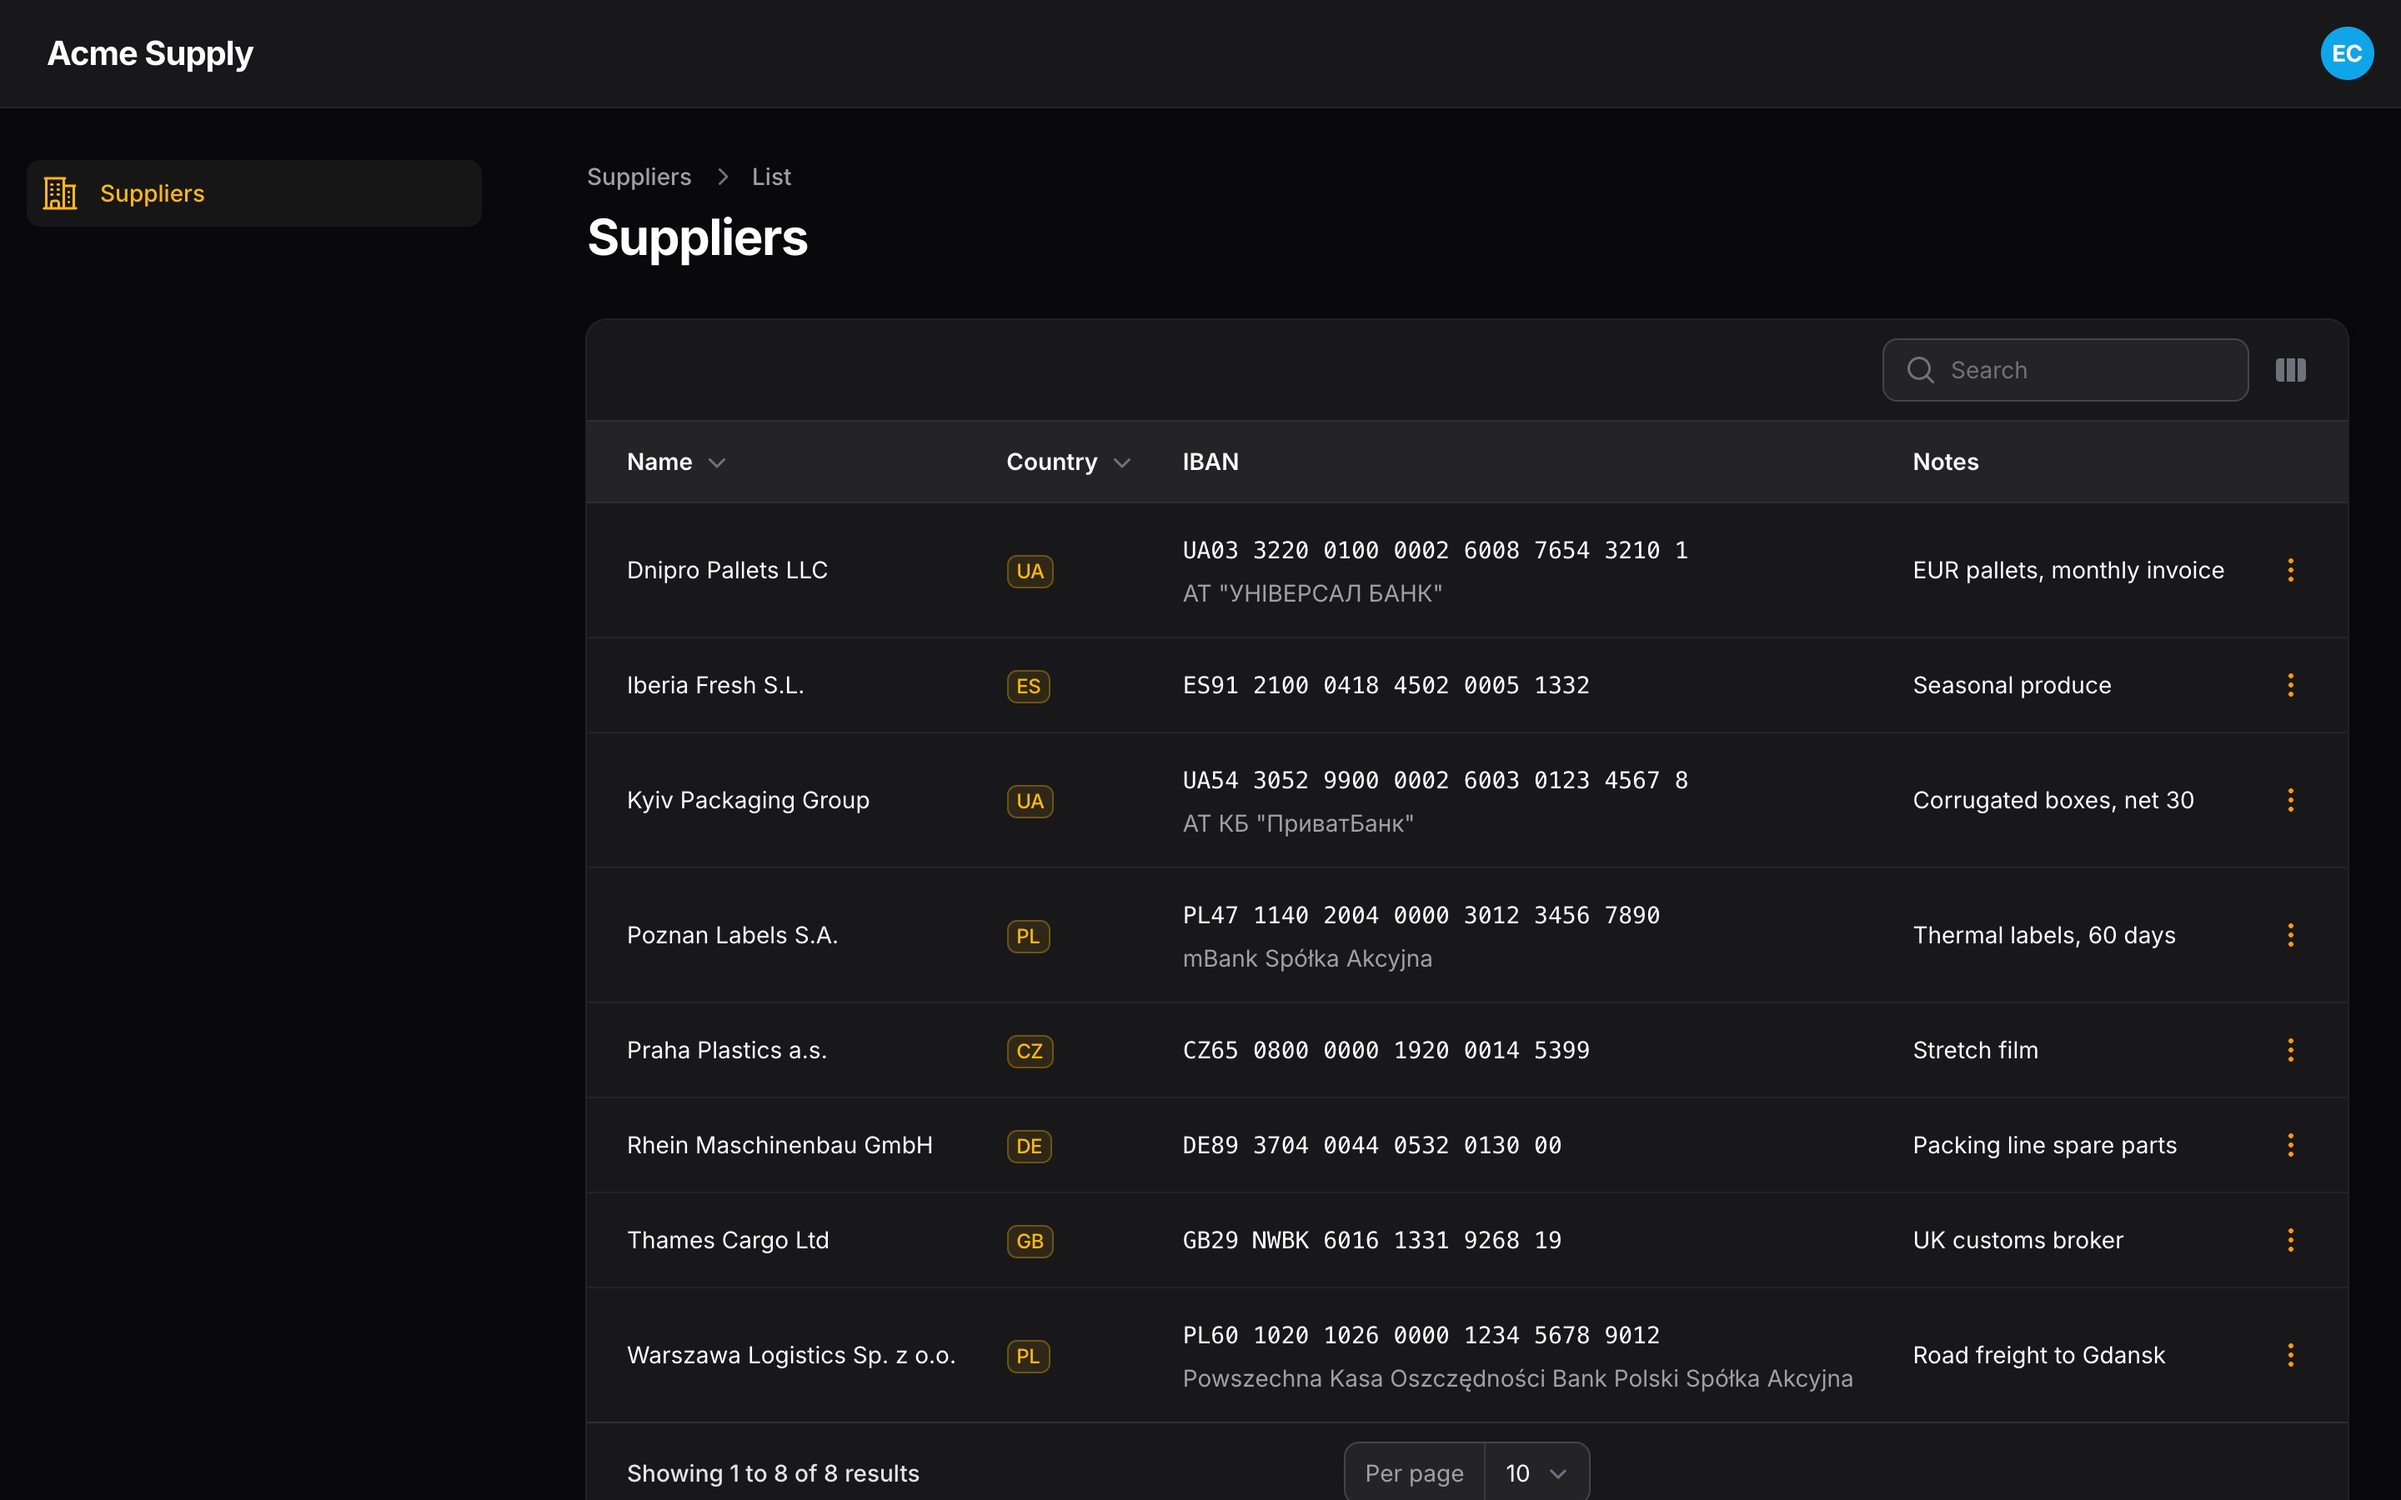
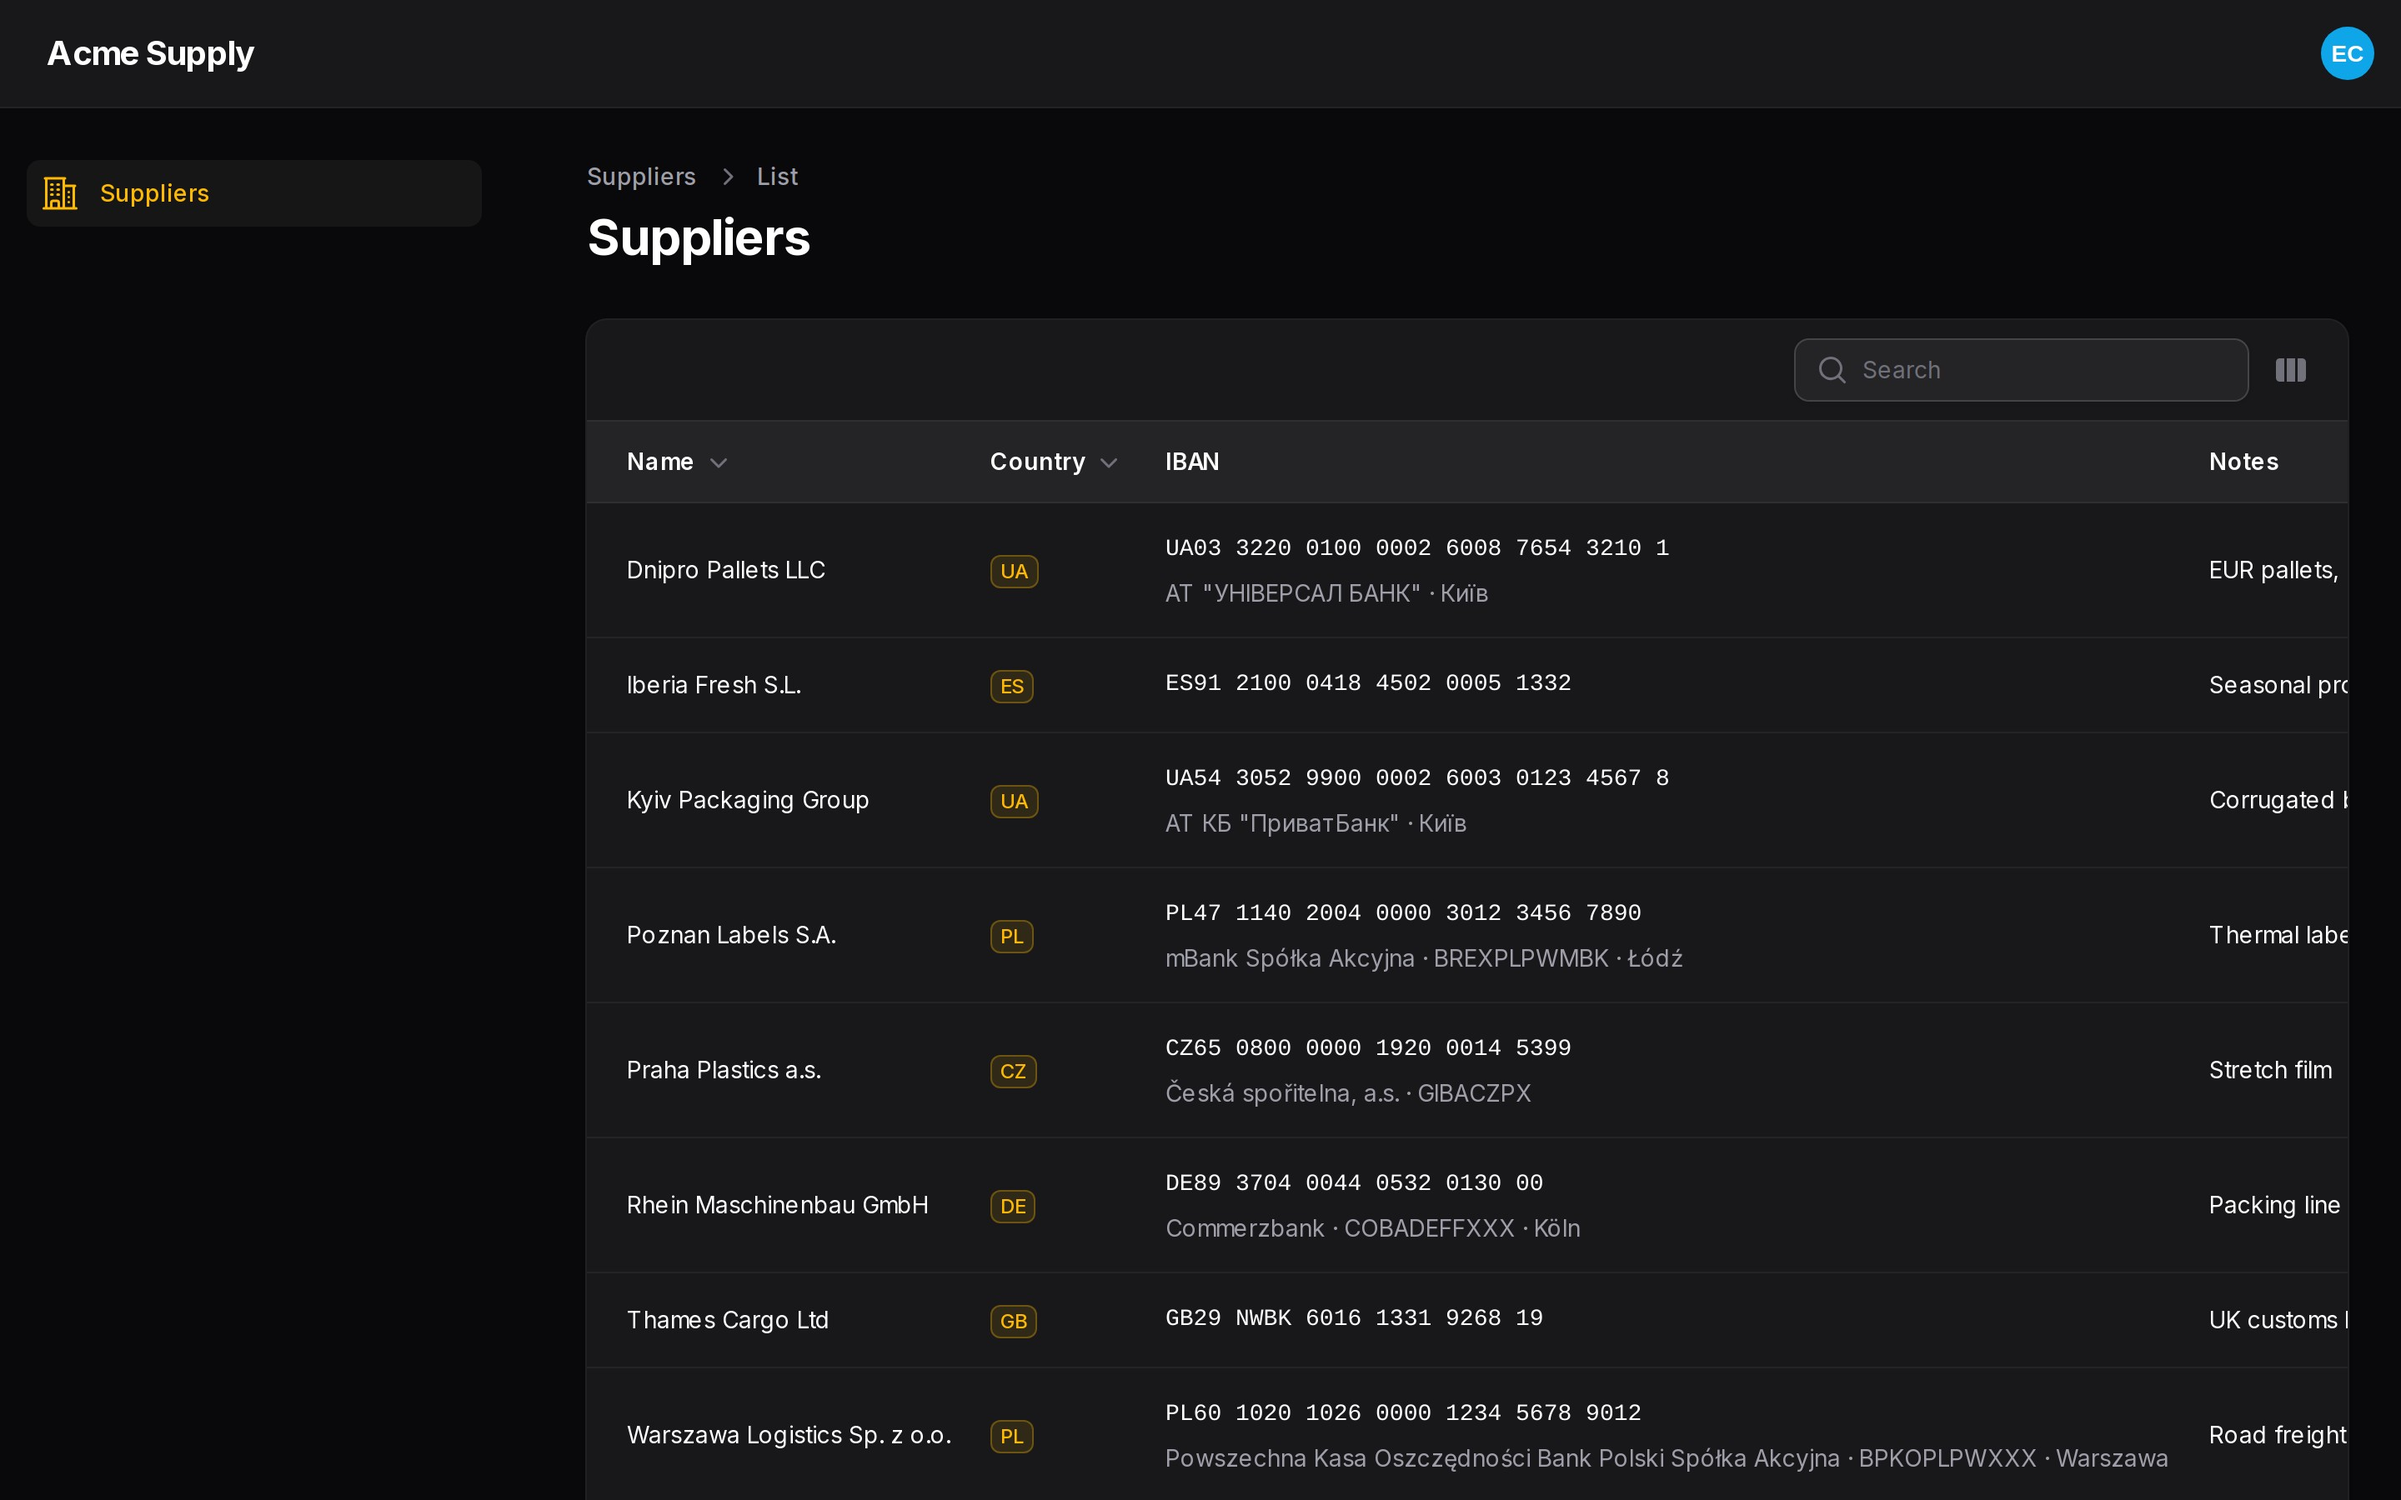
docs(art): screenshots and cover with bank details; README art links point at v1.1.0

diff --git a/README.md b/README.md
@@ -1,6 +1,6 @@
 # Filament IBAN
 
-<img class="filament-hidden" src="https://raw.githubusercontent.com/asignua/filament-iban/v1.0.2/art/cover.jpg" alt="Filament IBAN">
+<img class="filament-hidden" src="https://raw.githubusercontent.com/asignua/filament-iban/v1.1.0/art/cover.jpg" alt="Filament IBAN">
 
 [![Tests](https://img.shields.io/github/actions/workflow/status/asignua/filament-iban/tests.yml?branch=main&label=tests)](https://github.com/asignua/filament-iban/actions/workflows/tests.yml)
 
@@ -12,21 +12,21 @@ an infolist entry, a table column and a value helper. No dependencies besides Fi
 
 ## Screenshots
 
-![A table with IbanColumn: grouped numbers and bank names](https://raw.githubusercontent.com/asignua/filament-iban/v1.0.2/art/list.jpg)
+![A table with IbanColumn: grouped numbers with bank, BIC and city](https://raw.githubusercontent.com/asignua/filament-iban/v1.1.0/art/list.jpg)
 
-The field groups the number as you type and shows the bank for Ukrainian and Polish accounts:
+The field groups the number as you type and shows the bank, BIC and city underneath - with a warning when the bank is in liquidation:
 
-![IbanInput with the bank name under the field](https://raw.githubusercontent.com/asignua/filament-iban/v1.0.2/art/form.jpg)
+![IbanInput with bank details and a liquidation warning under the field](https://raw.githubusercontent.com/asignua/filament-iban/v1.1.0/art/form.jpg)
 
 Every IBAN country is checked for length, account structure and check digits:
 
-![A validation error for a wrong IBAN](https://raw.githubusercontent.com/asignua/filament-iban/v1.0.2/art/validation.jpg)
+![A validation error for a wrong IBAN](https://raw.githubusercontent.com/asignua/filament-iban/v1.1.0/art/validation.jpg)
 
-![IbanEntry on a view page](https://raw.githubusercontent.com/asignua/filament-iban/v1.0.2/art/view.jpg)
+![IbanEntry on a view page](https://raw.githubusercontent.com/asignua/filament-iban/v1.1.0/art/view.jpg)
 
 Dark mode:
 
-![Dark mode](https://raw.githubusercontent.com/asignua/filament-iban/v1.0.2/art/list-dark.jpg)
+![Dark mode](https://raw.githubusercontent.com/asignua/filament-iban/v1.1.0/art/list-dark.jpg)
 
 ## Requirements
 
